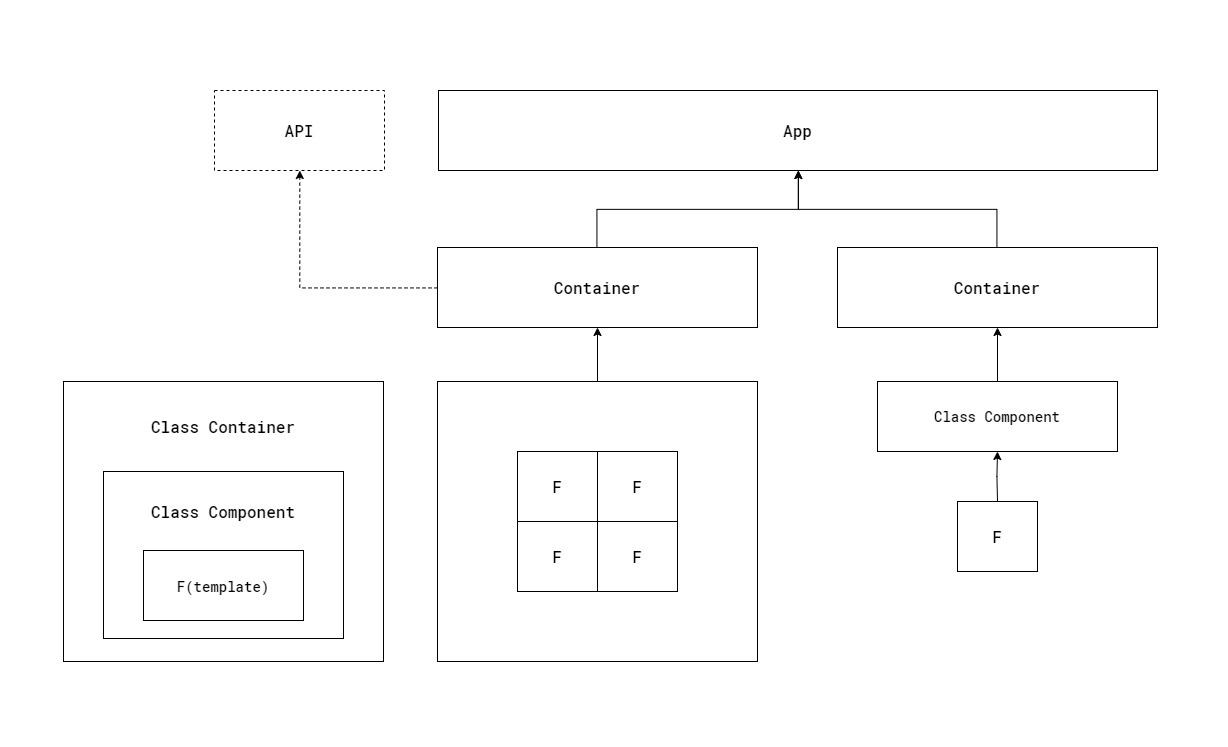
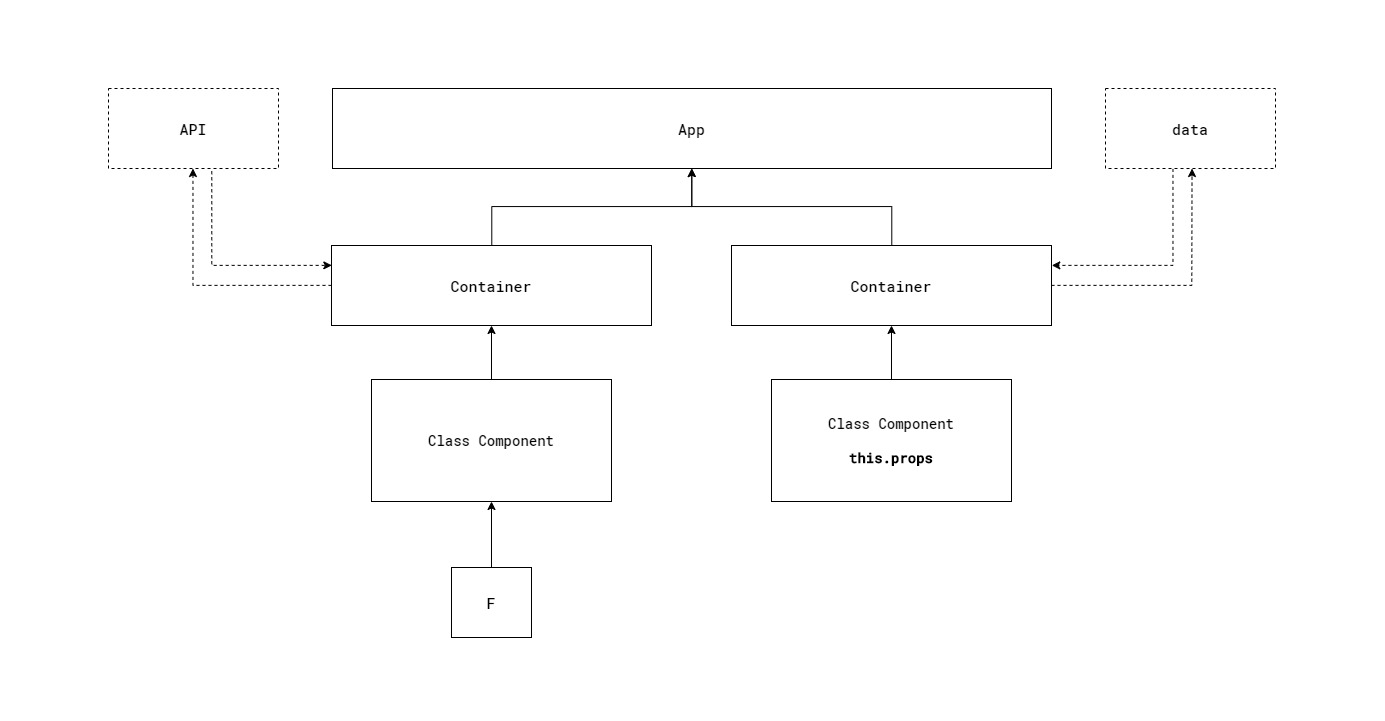
new container

diff --git a/src/components/class-container/ClassContainerD.jsx b/src/components/class-container/ClassContainerD.jsx
@@ -1,0 +1,24 @@
+import React from "react";
+import ClassComponentD from '../class-component/ClassComponentD'
+
+const dataA = { a: "A", b: "B" };
+
+class ClassContainerD extends React.Component {
+  render() {
+    return (
+      <div className="vertical-inline-flex bg-661fff pad-all-20 margin-t-20">
+    
+<xmp className="color--white margin-b-10">
+const dataA = &#123;a: "A", b: "B"&#125;
+</xmp>
+<xmp className="color--white margin-b-10">
+info=&#123;dataA&#125;
+</xmp>
+
+        <ClassComponentD info={dataA} />
+      </div>
+    );
+  }
+}
+
+export default ClassContainerD;

diff --git a/src/components/class-component/ClassComponentD.jsx b/src/components/class-component/ClassComponentD.jsx
@@ -1,0 +1,20 @@
+import React from "react"; 
+
+class ClassComponentD extends React.Component {
+  render() {
+    return (
+      <div class="vertical-inline-flex bg-color--blue pad-all-20">
+<xmp className="color--white margin-b-10">
+&#123;this.props.info.a&#125;
+</xmp>
+<xmp className="color--white margin-b-10">
+&#123;this.props.info.b&#125;
+</xmp>
+        <h2>{this.props.info.a}</h2>
+        <h2>{this.props.info.b}</h2>
+      </div>
+    );
+  }
+}
+
+export default ClassComponentD;

diff --git a/src/components/App.js b/src/components/App.js
@@ -1,6 +1,7 @@
 import React from 'react';
 import ClassContainerB from './class-container/ClassContainerB';
 import ClassContainerC from './class-container/ClassContainerC';
+import ClassContainerD from './class-container/ClassContainerD';
 
 
 function App() {
@@ -10,6 +11,7 @@ function App() {
         
           <ClassContainerB />
           <ClassContainerC />
+          <ClassContainerD />
 
       </div>
     </div>

diff --git a/src/components/class-component/ClassComponentB.jsx b/src/components/class-component/ClassComponentB.jsx
@@ -5,7 +5,7 @@ class ClassComponentB extends React.Component {
   render() {
     return (
       <div className="vertical-inline-flex bg-color--blue pad-all-20">
-        <p className="color-ffffff">Class Component B</p>
+        <p className="color-ffffff">Class Component</p>
         <FunctionComponentB />
       </div>
     );

diff --git a/src/components/function/FunctionComponentC.jsx b/src/components/function/FunctionComponentC.jsx
@@ -3,7 +3,6 @@ import PropTypes from "prop-types";
 
 const SearchResults = ({ articles = [] }) => (
   <div className="vertical-inline-flex bg-color--magenta pad-lr-20 pad-tb-10">
-    {/* <p className="color-ffffff">Search Results</p> */}
     <ul>
       {articles.map(({ webUrl, webTitle }) => (
         <li key={webUrl}>

diff --git a/src/components/class-container/ClassContainerB.jsx b/src/components/class-container/ClassContainerB.jsx
@@ -5,7 +5,7 @@ class ClassContainerB extends React.Component {
   render() {
     return (
       <div className="vertical-inline-flex bg-661fff pad-all-20">
-        <p className="color-ffffff">Class Container B</p>
+        <p className="color-ffffff">Class Container</p>
         <ClassComponentB />
       </div>
     );

diff --git a/src/components/function/FunctionComponentB.jsx b/src/components/function/FunctionComponentB.jsx
@@ -3,7 +3,7 @@ import React from "react"
 export default function FunctionComponentB() { 
   return (
     <div className="vertical-inline-flex bg-color--magenta pad-all-20">
-      <p className="color-ffffff">Function Component B</p>
+      <p className="color-ffffff">Function Component</p>
     </div>
   )
 }

diff --git a/src/components/function/FunctionComponentD.jsx b/src/components/function/FunctionComponentD.jsx
@@ -1,0 +1,10 @@
+import React from "react";
+
+export default function FunctionComponentD() { 
+  return (
+    <div className="vertical-inline-flex bg-color--blue pad-all-20">
+      <h2>{this.props.info.a}</h2>
+      <h2>{this.props.info.b}</h2>
+    </div>
+  );
+}
